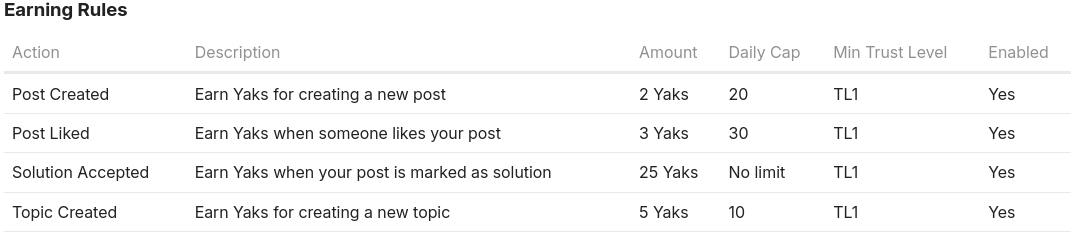
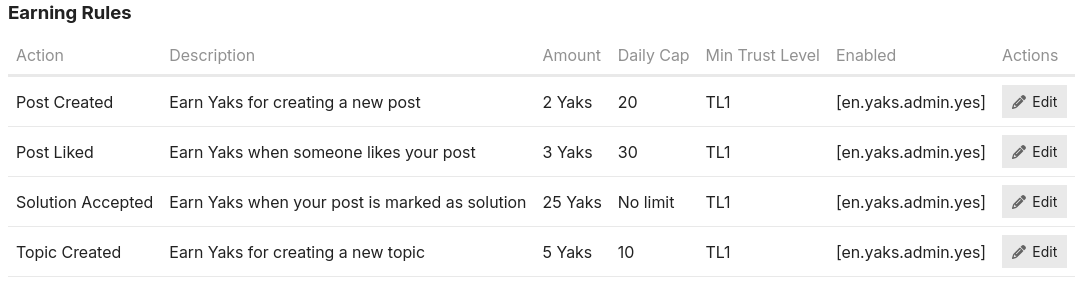
finishing yaks pt4 post and adding screenshot

diff --git a/content/blog/2025/building-yaks-virtual-currency-part-4.md b/content/blog/2025/building-yaks-virtual-currency-part-4.md
@@ -2,7 +2,8 @@
 title: "Building Yaks: A Virtual Currency System for Discourse (Part 4:
   Custom Titles and Earning System)"
 date: 2025-10-19
-tags: ["discourse", "ruby", "oss"]
+taxonomies:
+  tags: ["discourse", "ruby", "oss"]
 description: "Implementing custom user titles and the Yaks earning system.
   This post covers serializer overrides for titles and building a complete
   earning system with rate limiting, trust level requirements, and real-time
@@ -114,7 +115,7 @@ From the start, the requirements were clear:
 1. Be modular (database-driven, not hardcoded)
 2. Rate limiting (can't spam posts to farm Yaks)
 3. Trust level requirements (new accounts can't abuse it)
-4. Content quality minimums (no one-word posts)
+4. Content length minimums (beyond Discourse's defaults, prevent low-effort farming)
 
 ### Database Schema
 
@@ -284,9 +285,9 @@ messageBus.subscribe(`/yak-balance/${currentUser.id}`, (data) => {
 Now when you create a post, the balance in your user menu updates instantly.
 No polling, no page refresh.
 
-## Bugs Fixed (That Tests Would Have Caught)
+## Bugs Fixed
 
-Three bugs were discovered during manual testing. All three would have been
+Some bugs were discovered during manual testing. All three would have been
 caught immediately by integration tests.
 
 ### Bug 1: Event Hook User Parameter
@@ -350,7 +351,7 @@ YakTransaction.create!(
 
 Any test attempting to create a transaction would have failed validation.
 
-## Test Suite Structure
+## A New Basic Test Suite Structure
 
 The test suite covers all validation paths:
 
@@ -418,9 +419,6 @@ The admin UI shows all earning rules in a table:
 - Minimum trust level
 - Enabled status
 
-Future enhancement: Add edit functionality so admins can adjust amounts and
-caps without database access.
-
 ## Architecture Wins
 
 **Database-Driven Configuration**: No code changes needed to adjust earning
@@ -477,8 +475,8 @@ Remaining work:
 **Serializers Are Powerful**: Understanding Discourse's serializer
 architecture unlocks a lot of customization possibilities.
 
-**MessageBus Is Underused**: Real-time updates are so easy with MessageBus,
-yet many plugins don't use it. Game changer for UX.
+**MessageBus Is Handy**: Real-time updates are easy with MessageBus, yet some
+plugins don't use it.
 
 **Database-Driven Config Is Worth It**: The upfront effort to make earning
 rules configurable pays off in flexibility.
